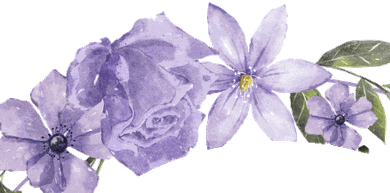
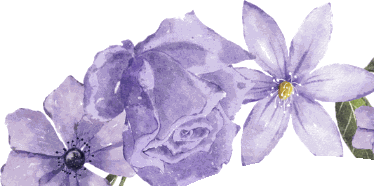
Restore the original lettered wreath and add rose water and serum photos

diff --git a/index.html b/index.html
@@ -42,11 +42,13 @@
   <main>
     <section class="hero">
       <div class="hero__art">
-        <img src="assets/wreath-monarca.png" alt="" class="hero__wreath" width="960" height="960" />
-        <div class="hero__text">
-          <h1>Monarca</h1>
-          <p class="hero__tagline">Es el momento perfecto para florecer y brillar.</p>
-        </div>
+        <!-- The artwork carries the brand name and the tagline in its own
+             lettering, so the image is the logo, not decoration. The heading
+             below repeats it as real text, hidden visually: without it the page
+             would have no <h1> at all for a screen reader or a search engine. -->
+        <img src="assets/wreath-monarca.png" alt="Monarca — es el momento perfecto para florecer y brillar"
+             class="hero__wreath" width="960" height="960" />
+        <h1 class="visually-hidden">Monarca</h1>
       </div>
       <p class="hero__sub">Tónicos, perfumes y aceites hechos a mano, en lotes pequeños.</p>
       <a class="btn btn--action" href="#catalogo">Ver el catálogo</a>

diff --git a/styles.css b/styles.css
@@ -115,14 +115,18 @@ a:focus-visible, button:focus-visible, summary:focus-visible {
   place-items: center;
   margin-inline: auto;
 }
-.hero__wreath, .hero__text { grid-area: 1 / 1; }
-.hero__wreath { width: 100%; height: auto; display: block; }
-.hero__text { width: 62%; }
-.hero__tagline {
-  font-family: var(--serif);
-  font-size: clamp(1rem, 3.6vw, 1.35rem);
-  color: var(--ink-soft);
-  margin: 0.3rem 0 0;
+.hero__wreath { width: 100%; height: auto; display: block; grid-area: 1 / 1; }
+
+/* Present to assistive technology and to search engines, invisible on screen.
+   Used for the <h1>, whose visible form is the lettering inside the artwork. */
+.visually-hidden {
+  position: absolute;
+  width: 1px; height: 1px;
+  margin: -1px; padding: 0;
+  overflow: hidden;
+  clip-path: inset(50%);
+  white-space: nowrap;
+  border: 0;
 }
 .hero__sub {
   color: var(--ink-soft);

diff --git a/tools/prepare-logo.py b/tools/prepare-logo.py
@@ -221,12 +221,22 @@ def botanicals(wreath):
 
 
 def main():
-    wreath = clear_centre(remove_light_background(Image.open(SOURCE_WREATH)))
-    wreath.thumbnail((960, 960), Image.LANCZOS)
-    compress(wreath).save("assets/wreath-monarca.png", optimize=True)
-    print("wrote assets/wreath-monarca.png", wreath.size)
+    full = remove_light_background(Image.open(SOURCE_WREATH))
 
-    botanicals(wreath)
+    # The hero uses the artwork exactly as the client drew it — wreath, script
+    # and tagline together. An earlier version emptied the centre so the
+    # heading could be real HTML text, but the lettering is part of the brand's
+    # identity and she asked for it back. The page still carries a real <h1>,
+    # visually hidden, so screen readers and search engines are not left with
+    # an image and nothing else.
+    hero = full.copy()
+    hero.thumbnail((960, 960), Image.LANCZOS)
+    compress(hero).save("assets/wreath-monarca.png", optimize=True)
+    print("wrote assets/wreath-monarca.png", hero.size)
+
+    # The flowers are still cut from a centre-cleared copy: cropping them from
+    # the lettered version would drag fragments of type into the bouquets.
+    botanicals(clear_centre(full))
 
     # The client's own standalone monarch, for use at any size across the site.
     butterfly = cut_out_from_white(Image.open(SOURCE_BUTTERFLY))

diff --git a/tools/prepare-photos.py b/tools/prepare-photos.py
@@ -16,6 +16,8 @@ PHOTOS = {
     "Varios productos.png": ("la-coleccion.jpg", None),
     "Jabones.png": ("jabon-artesanal.jpg", (0.50, 0.06, 1.00, 0.94)),
     "Exfoliante de Cafe.png": ("exfoliante-de-cafe.jpg", (0.02, 0.03, 0.98, 1.00)),
+    "agua de rosas.png": ("agua-de-rosas.jpg", (0.14, 0.10, 0.92, 1.00)),
+    "Sérum de linaza y clavo.png": ("serum-de-linaza-y-clavo.jpg", (0.16, 0.02, 0.90, 1.00)),
 }
 
 MAX_EDGE = 1400
